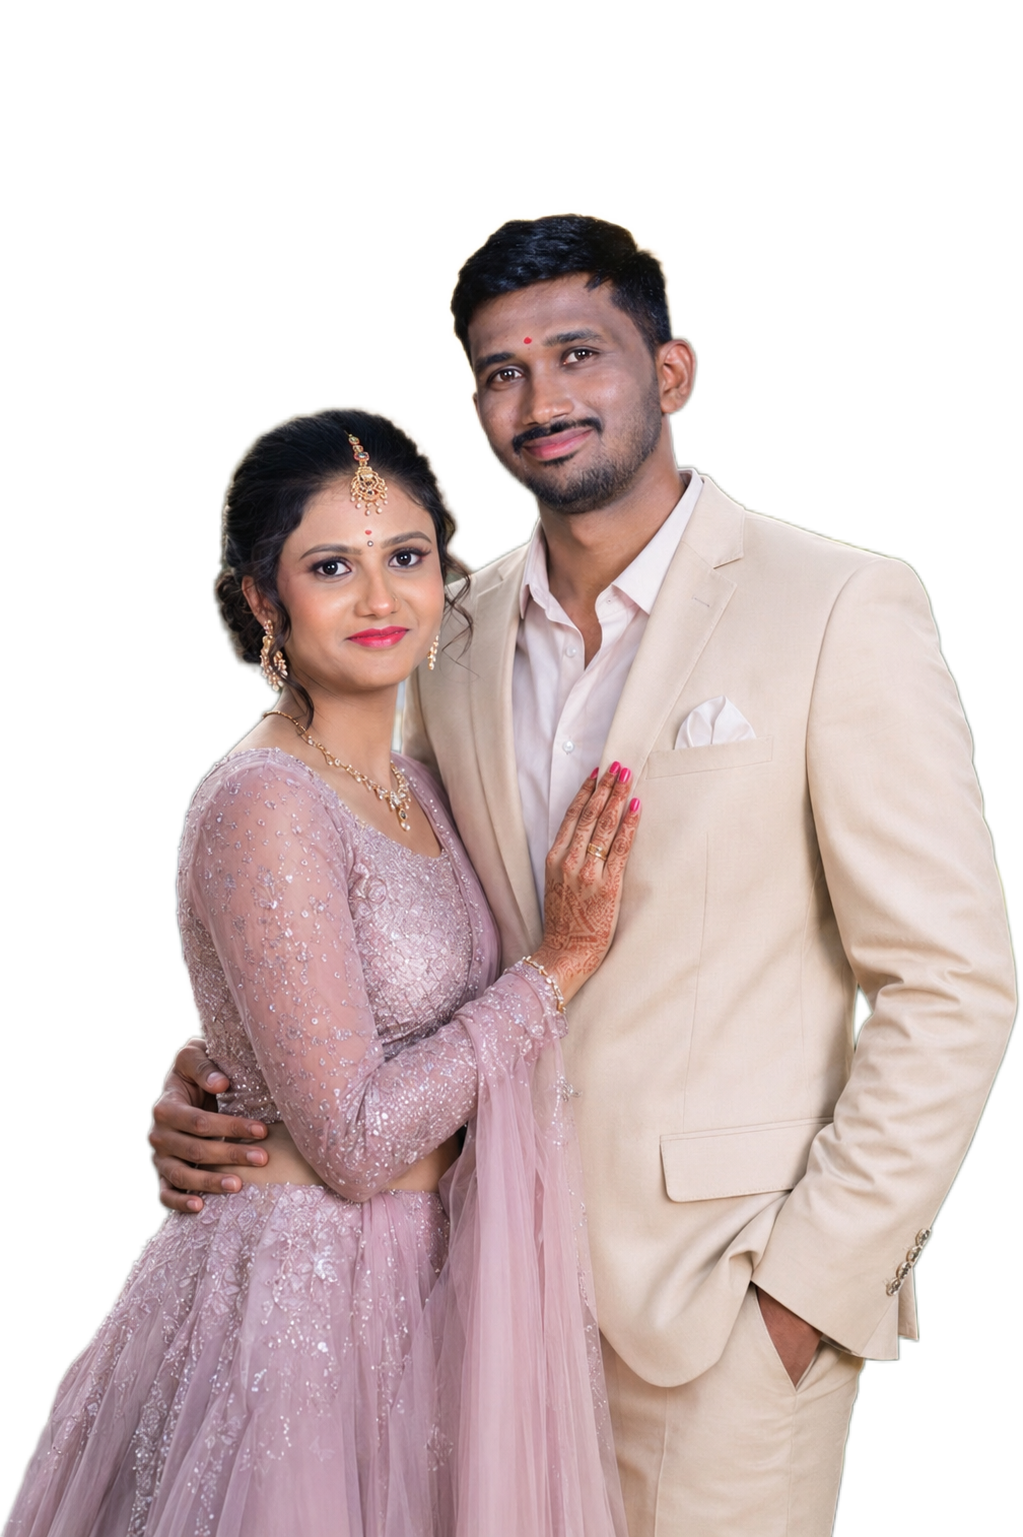
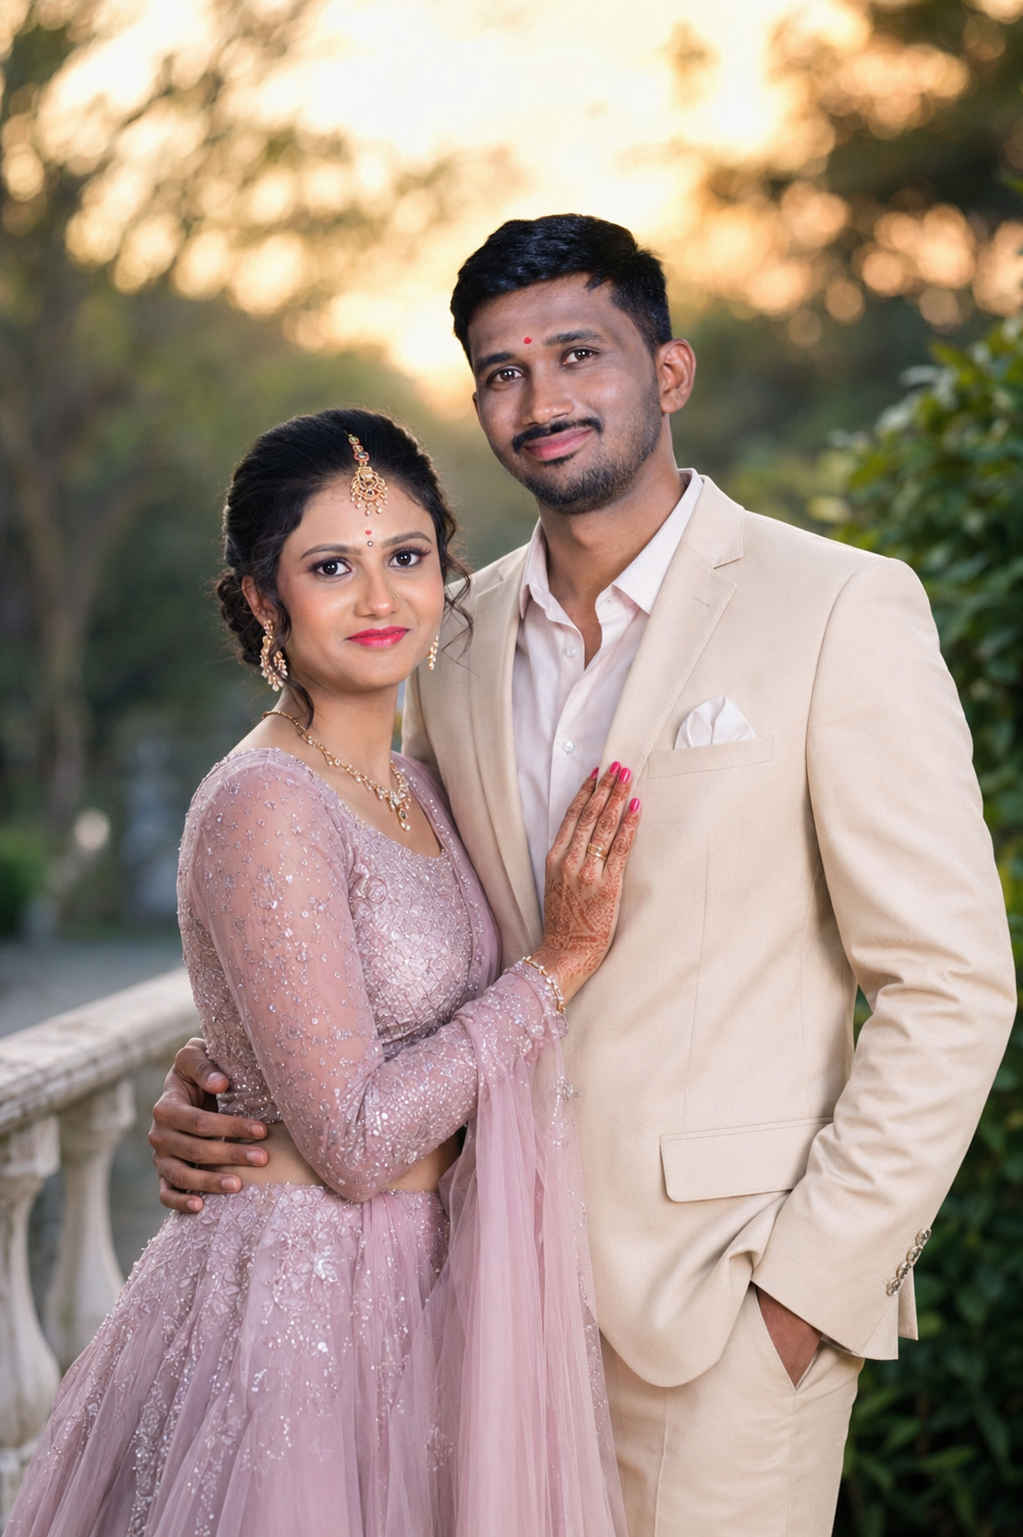
added bharath & bhavana preview

diff --git a/Bharath-weds-Bhavana/index.html b/Bharath-weds-Bhavana/index.html
@@ -1,10 +1,27 @@
 <!DOCTYPE html>
 <html lang="en">
   <head>
-    <meta charset="UTF-8" />
-    <meta name="viewport" content="width=device-width, initial-scale=1.0" />
+
+    <meta charset="UTF-8">
+    <meta name="viewport" content="width=device-width, initial-scale=1.0">
+
     <title>Bharath Weds Bhavana</title>
-    <meta name="description" content="A beautiful mobile-friendly wedding invitation website for Bharath and Bhavana." />
+
+    <meta name="msapplication-TileImage" content="image_url">
+
+    <meta property="og:site_name" content="eternalGatherings.com">
+    <meta property="og:title" content="Bharath Weds Bhavana">
+    <meta property="og:description" content="You are invited to Bharath & Bhavana's wedding On 17-Aug-2026">
+    <meta name="description" content="You are invited to Bharath & Bhavana's wedding On 17-Aug-2026" />
+
+    <meta property="og:image" itemprop="image"
+        content="https://raw.githubusercontent.com/eternalGatherings/weddings/refs/heads/main/Bharath-Weds-Bhavana/images/preview.jpeg">
+
+    <meta property="og:type" content="website">
+    <meta property="og:image:type" content="image/png">
+
+    <meta property="og:url" content="https://weddings.eternalgatherings.sachinkn.in/Bharath-Weds-Bhavana/">
+
     <link rel="preconnect" href="https://fonts.googleapis.com" />
     <link rel="preconnect" href="https://fonts.gstatic.com" crossorigin />
     <link
@@ -20,7 +37,7 @@
       <section class="hero card reveal">
         <img class="flower flower-top" src="Images/Top-Right-Flower.svg" alt="Decorative flower" />
         <img class="flower flower-bottom" src="Images/Bottom-Left-Flower.svg" alt="Decorative flower" />
-        <img class="hero-photo-float" src="Images/photo-1.png" alt="Decorative wedding photo" />
+        <img class="hero-photo-float" src="Images/main-photo-1.png" alt="Decorative wedding photo" />
 
         <div class="hero-content">
           <img class="save-the-date reveal" src="Images/save-the-date.svg" data-delay="50ms" alt="Save the date" />
@@ -62,7 +79,7 @@
 
       <section class="card photo-section reveal" data-delay="200ms">
         <div class="photo-frame">
-          <img src="Images/jodi.png" alt="Reference Image" />
+          <img src="Images/photo-3.png" alt="Reference Image" />
         </div>
         <div class="photo-copy">
           <h2>Family Details</h2>
@@ -72,6 +89,16 @@
             Bride's Family: Elder D/o. Smt. J.K. Varalakshmi & (Late) Sri. C.R. Paramesh,
             11th Cross, Karanji Katte, Khadripura Road, Kolar Taluk, Kolar District.
           </p>
+        </div>
+      </section>
+
+      <section class="card media-card reveal" data-delay="300ms">
+        <h2>Engagement video</h2>
+        <div class="media-frame">
+          <video controls playsinline preload="metadata" poster="Images/video-preview.jpeg" title="Engagement Video">
+            <source src="video/Engagement-Video.mp4" type="video/mp4" />
+            Your browser does not support the video tag.
+          </video>
         </div>
       </section>
 
@@ -92,15 +119,6 @@
             referrerpolicy="no-referrer-when-downgrade"
             allowfullscreen
           ></iframe>
-        </div>
-      </section>
-
-      <section class="card media-card reveal" data-delay="300ms">
-        <div class="media-frame">
-          <video controls playsinline preload="metadata" poster="Images/photo-1.png" title="Engagement Video">
-            <source src="video/Engagement-Video.mp4" type="video/mp4" />
-            Your browser does not support the video tag.
-          </video>
         </div>
       </section>
     </main>

diff --git a/Bharath-weds-Bhavana/styles.css b/Bharath-weds-Bhavana/styles.css
@@ -263,7 +263,8 @@ body {
 .detail-card h2,
 .schedule-card h2,
 .photo-section h2,
-.action-card h2 {
+.action-card h2,
+.media-card h2 {
     margin-top: 0;
     font-family: Georgia, "Times New Roman", serif;
     font-size: 1.45rem;
